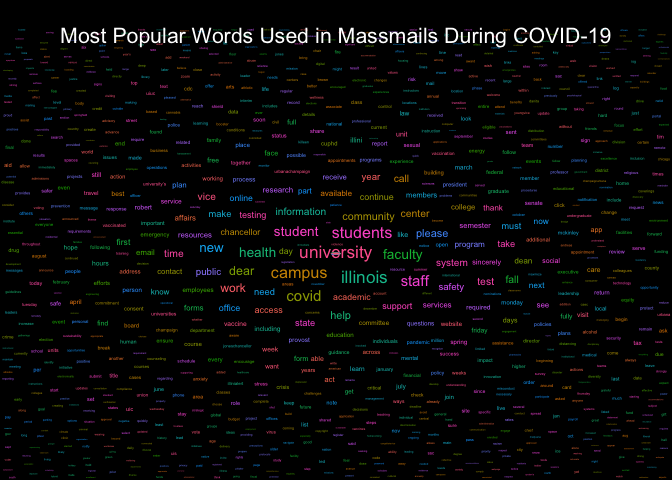
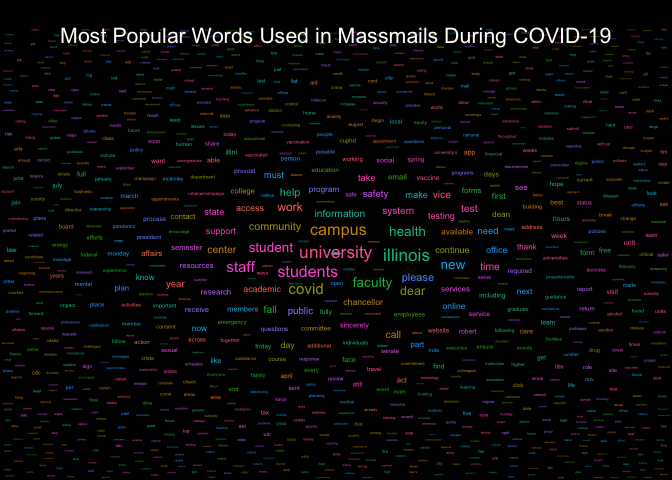
Re-build README.Rmd and Graphs

Changed region(s): [[0.0, 0.0625, 1.0, 1.0]]

diff --git a/README.md b/README.md
@@ -17,7 +17,7 @@ The archive may be viewed here:
 
 <https://massmail.illinois.edu/massmailArchive>
 
-Data has **1906** observations and **7** variables:
+Data has **1907** observations and **7** variables:
 
 - `datetime`: Date and time when the email was sent in the form of
   `YYYY-MM-DD HMS` with either CDT or CST.
@@ -210,16 +210,16 @@ head(most_popular_words, 10) %>%
 
 | word        | freq |
 |:------------|-----:|
-| university  | 2534 |
-| students    | 2085 |
+| university  | 2536 |
+| students    | 2086 |
 | campus      | 1855 |
-| illinois    | 1738 |
+| illinois    | 1740 |
 | student     | 1296 |
 | faculty     | 1175 |
 | health      | 1116 |
 | community   | 1101 |
 | covid       | 1070 |
-| information | 1059 |
+| information | 1060 |
 
 #### Wordcloud
 
